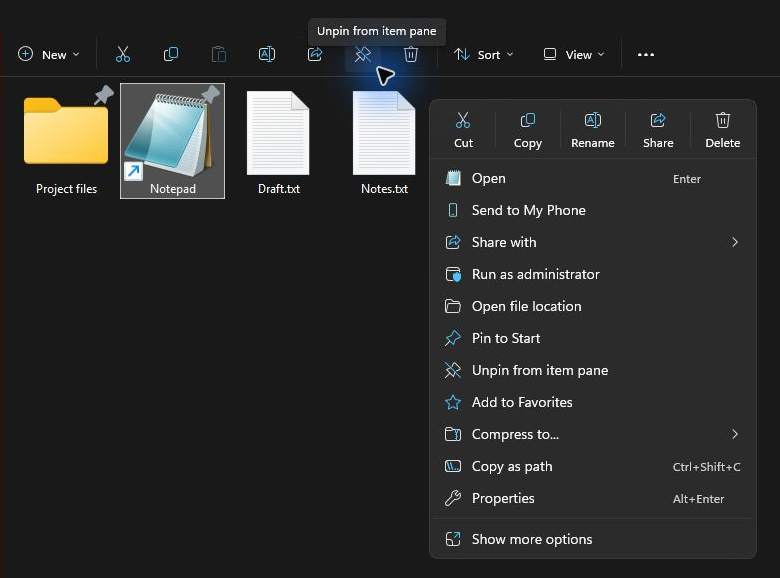
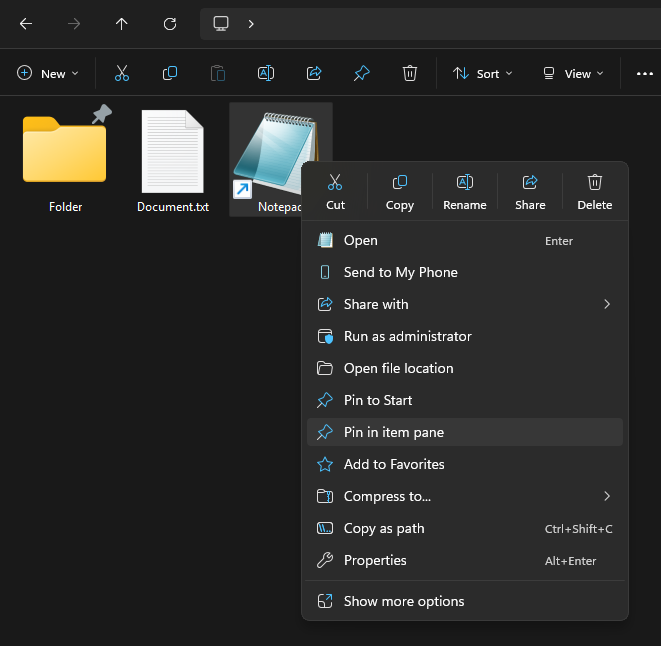
Refresh Explorer Item Pins screenshots

diff --git a/Explorer_Item_Pins/Mod/explorer-item-pins.wh.cpp b/Explorer_Item_Pins/Mod/explorer-item-pins.wh.cpp
@@ -28,7 +28,7 @@ Explorer Item Pins keeps selected files and folders at the top of their parent f
 
 ## Features
 
-| ![Dark theme with large icons and the Unpin command](https://raw.githubusercontent.com/CTravkin/DSN_Windhawk_Mods/main/Explorer_Item_Pins/Assets/Screenshots/Dark_Large_Icons.png) | ![Light theme with small icons, the Pinned group, and the Pin command](https://raw.githubusercontent.com/CTravkin/DSN_Windhawk_Mods/main/Explorer_Item_Pins/Assets/Screenshots/Light_Small_Icons.png) |
+| ![Dark theme with large icons and the Pin command](https://raw.githubusercontent.com/CTravkin/DSN_Windhawk_Mods/main/Explorer_Item_Pins/Assets/Screenshots/Dark_Large_Icons.png) | ![Light theme with the Unpin command and its toolbar tooltip](https://raw.githubusercontent.com/CTravkin/DSN_Windhawk_Mods/main/Explorer_Item_Pins/Assets/Screenshots/Light_Small_Icons.png) |
 | :---: | :---: |
 
 - **Two ways to pin.** Use the modern context menu or the pin button between **Share** and **Delete** on the command bar.

diff --git a/Explorer_Item_Pins/README.md b/Explorer_Item_Pins/README.md
@@ -6,7 +6,7 @@ Explorer Item Pins keeps selected files and folders at the top of their parent f
 
 ## Features
 
-| ![Dark theme with large icons and the Unpin command](https://raw.githubusercontent.com/CTravkin/DSN_Windhawk_Mods/main/Explorer_Item_Pins/Assets/Screenshots/Dark_Large_Icons.png) | ![Light theme with small icons, the Pinned group, and the Pin command](https://raw.githubusercontent.com/CTravkin/DSN_Windhawk_Mods/main/Explorer_Item_Pins/Assets/Screenshots/Light_Small_Icons.png) |
+| ![Dark theme with large icons and the Pin command](https://raw.githubusercontent.com/CTravkin/DSN_Windhawk_Mods/main/Explorer_Item_Pins/Assets/Screenshots/Dark_Large_Icons.png) | ![Light theme with the Unpin command and its toolbar tooltip](https://raw.githubusercontent.com/CTravkin/DSN_Windhawk_Mods/main/Explorer_Item_Pins/Assets/Screenshots/Light_Small_Icons.png) |
 | :---: | :---: |
 
 - **Two ways to pin.** Use the modern context menu or the pin button between **Share** and **Delete** on the command bar.
